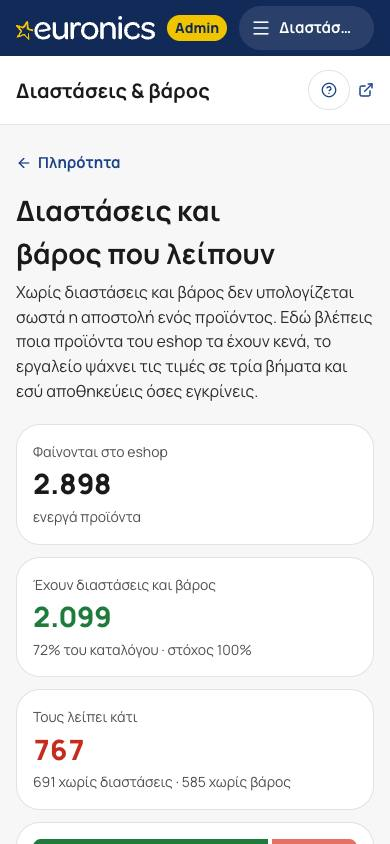
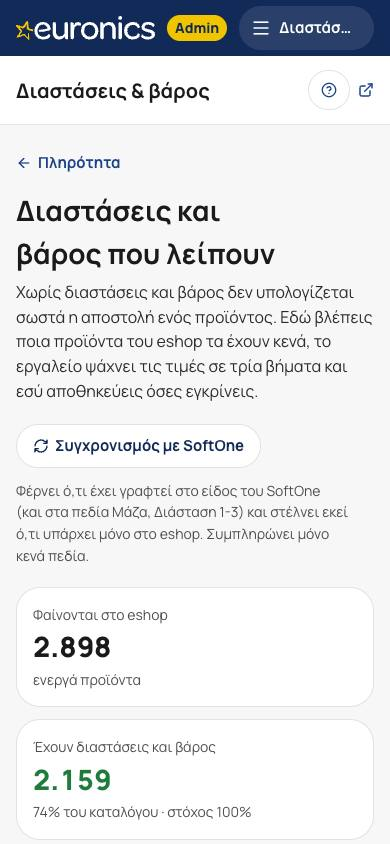
Διαστάσεις & βάρος: κουμπί «Καταχώρηση» σε κάθε προϊόν (παράθυρο για πλάτος, ύψος, βάθος και βάρος με το χέρι — ζητά μόνο ό,τι λείπει, ξεκινά από την πρόταση, αποθηκεύει σε eshop και SoftOne) και «Συγχρονισμός με SoftOne» και προς τις δύο κατευθύνσεις: τα πεδία Βάρος/Μήκος/Πλάτος/Ύψος (CCC, αυτά δια

Changed region(s): [[0.0308, 0.5237, 0.9231, 1.0], [0.5846, 0.7393, 0.6154, 0.7701], [0.4923, 0.7701, 0.5231, 0.8009]]

diff --git a/components/admin/catalog/DimsMissingTool.tsx b/components/admin/catalog/DimsMissingTool.tsx
@@ -2,9 +2,10 @@
 
 import { useMemo, useRef, useState } from "react";
 import Link from "next/link";
-import { AlertTriangle, Check, CircleDashed, FileSearch, Globe, Leaf, Loader2, Save, SearchX, Square } from "lucide-react";
-import { searchDimsAction, saveDimsAction } from "@/app/admin/(shell)/catalog/dimensions/missing/actions";
-import type { MissingOverview, SearchMode, SaveOutcome } from "@/lib/catalog/dims-missing";
+import { AlertTriangle, Check, CircleDashed, FileSearch, Globe, Leaf, Loader2, PencilLine, RefreshCw, Save, SearchX, Square, X } from "lucide-react";
+import { Dialog, DialogContent, DialogTitle, DialogDescription } from "@/components/ui/dialog";
+import { searchDimsAction, saveDimsAction, syncPlanAction, syncRunAction, missingRowsAction } from "@/app/admin/(shell)/catalog/dimensions/missing/actions";
+import type { MissingOverview, MissingRow, SearchMode, SaveOutcome, SavePick } from "@/lib/catalog/dims-missing";
 import type { RowProposal } from "@/lib/catalog/dims-missing-core";
 
 const n = (v: number) => v.toLocaleString("el-GR", { maximumFractionDigits: 2 });
@@ -36,6 +37,7 @@ export function DimsMissingTool({ overview, canWrite, s1On, eprelKey }: { overvi
   const [webLimit, setWebLimit] = useState(50);
   const stop = useRef(false);
   const [savingId, setSavingId] = useState<string | null>(null);
+  const [manual, setManual] = useState<MissingRow | null>(null);
 
   const statusOf = (id: string) => props.get(id)?.status ?? "pending";
   const counts = useMemo(() => { const c = { ready: 0, review: 0, none: 0, pending: 0 }; for (const r of rows) c[props.get(r.id)?.status ?? "pending"]++; return c; }, [rows, props]);
@@ -68,8 +70,8 @@ export function DimsMissingTool({ overview, canWrite, s1On, eprelKey }: { overvi
   const open = rows.filter((r) => statusOf(r.id) !== "ready");
 
   /** `only`: άμεση αποθήκευση ενός προϊόντος (κουμπί στη γραμμή «Απαιτεί ενέργεια»)· αλλιώς όλα τα τσεκαρισμένα. */
-  async function save(only?: string) {
-    const picks = rows.filter((r) => (only ? r.id === only : sel.has(r.id)) && props.get(r.id)).map((r) => { const p = props.get(r.id)!; return { productId: r.id, dims: p.dims && { w: p.dims.w, h: p.dims.h, d: p.dims.d, label: p.dims.label, raw: p.dims.raw }, weight: p.weight && { kg: p.weight.kg, label: p.weight.label, raw: p.weight.raw } }; });
+  async function save(only?: string, manualPick?: SavePick) {
+    const picks: SavePick[] = manualPick ? [manualPick] : rows.filter((r) => (only ? r.id === only : sel.has(r.id)) && props.get(r.id)).map((r) => { const p = props.get(r.id)!; return { productId: r.id, dims: p.dims && { w: p.dims.w, h: p.dims.h, d: p.dims.d, label: p.dims.label, raw: p.dims.raw }, weight: p.weight && { kg: p.weight.kg, label: p.weight.label, raw: p.weight.raw } }; });
     if (!picks.length) return;
     stop.current = false; setMsg(null); setSavingId(only ?? null);
     const all: SaveOutcome[] = [];
@@ -82,18 +84,37 @@ export function DimsMissingTool({ overview, canWrite, s1On, eprelKey }: { overvi
     } catch { setMsg({ ok: false, text: "Η αποθήκευση σταμάτησε από σφάλμα. Όσα πρόλαβαν αποθηκεύτηκαν." }); }
     const ok = new Set(all.filter((o) => o.ok).map((o) => o.id));
     const title = (id: string) => rows.find((r) => r.id === id)?.title ?? id;
+    if (manualPick) setManual(null);
     setSaved({ s1: all.filter((o) => o.ok && o.s1 === "written").length, eshop: all.filter((o) => o.ok && o.s1 !== "written").length, failed: all.filter((o) => !o.ok || o.s1 === "error").map((o) => `${title(o.id)}: ${o.message ?? "σφάλμα"}`) });
     setRows((l) => l.filter((r) => !ok.has(r.id)));
     setSel((s) => new Set([...s].filter((id) => !ok.has(id))));
     setBusy(null); setSavingId(null);
   }
 
+  /** Συγχρονισμός με το SoftOne: πρώτα ποια διαφέρουν (μία ανάγνωση), μετά ανά παρτίδα, και στο τέλος η λίστα ξανά από τη βάση. */
+  async function sync() {
+    stop.current = false; setMsg(null); setSaved(null);
+    const label = "Συγχρονισμός με SoftOne";
+    setBusy({ label, done: 0, total: 1, found: 0, cost: 0 });
+    try {
+      const ids = await syncPlanAction();
+      let done = 0, ok = 0, written = 0; const failed: string[] = [];
+      for (let i = 0; i < ids.length && !stop.current; i += 6) {
+        setBusy({ label, done, total: ids.length, found: ok, cost: 0 });
+        const r = await syncRunAction(ids.slice(i, i + 6));
+        done += Math.min(6, ids.length - i); ok += r.done; written += r.written; failed.push(...r.failed.map((f) => f.error));
+      }
+      setRows(await missingRowsAction());
+      setMsg({ ok: !failed.length, text: !ids.length ? "Το eshop και το SoftOne συμφωνούν ήδη· δεν χρειάστηκε καμία αλλαγή." : `Συγχρονισμός: ενημερώθηκαν ${n(ok)} από ${n(ids.length)} προϊόντα· σε ${n(written)} συμπληρώθηκαν κενά πεδία στο SoftOne${failed.length ? ` · ${n(failed.length)} απέτυχαν (${failed[0]})` : ""}${done < ids.length ? " · σταμάτησε πριν τελειώσει, πάτα ξανά για τα υπόλοιπα" : ""}.` });
+    } catch { setMsg({ ok: false, text: "Ο συγχρονισμός σταμάτησε από σφάλμα. Πάτα ξανά για να συνεχίσει από εκεί που έμεινε." }); }
+    setBusy(null);
+  }
   const saving = busy?.label === "Αποθήκευση";
   const progress = busy && (
           <div className="rounded-2xl border border-eu-line bg-white p-4 grid gap-2 w-full">
             <div className="flex flex-wrap items-center gap-3 text-eu-ink text-[length:var(--fs-14)]">
               <Loader2 className="size-4 animate-spin text-eu-blue" aria-hidden />
-              <b>{busy.label}</b><span className="tabular-nums">{n(busy.done)} από {n(busy.total)} · {busy.label === "Αποθήκευση" ? "αποθηκεύτηκαν" : "βρέθηκαν"} {n(busy.found)}{busy.cost ? ` · ${busy.cost.toFixed(2)} $` : ""}</span>
+              <b>{busy.label}</b><span className="tabular-nums">{n(busy.done)} από {n(busy.total)} · {busy.label === "Αποθήκευση" ? "αποθηκεύτηκαν" : busy.label.startsWith("Συγχρ") ? "ενημερώθηκαν" : "βρέθηκαν"} {n(busy.found)}{busy.cost ? ` · ${busy.cost.toFixed(2)} $` : ""}</span>
               <button type="button" onClick={() => { stop.current = true; }} className={`${btn} border border-eu-line bg-white text-eu-ink hover:border-eu-navy ml-auto`}><Square className="size-3.5" aria-hidden /> Σταμάτα</button>
             </div>
             <div className="h-2 rounded-full bg-eu-surface overflow-hidden"><div className="h-full bg-eu-blue transition-[width] duration-300" style={{ width: `${(busy.done / busy.total) * 100}%` }} /></div>
@@ -107,6 +128,10 @@ export function DimsMissingTool({ overview, canWrite, s1On, eprelKey }: { overvi
 
   return (
     <div className="grid gap-5 min-w-0">
+      <div data-help="dims-missing.sync" className="flex flex-wrap items-center gap-3">
+        <button type="button" disabled={!!busy || !canWrite} onClick={sync} className={`${btn} border border-eu-line bg-white text-eu-navy hover:border-eu-navy`}><RefreshCw className="size-4" aria-hidden /> Συγχρονισμός με SoftOne</button>
+        <p className="m-0 flex-1 min-w-[240px] max-w-[80ch] text-eu-ink-3 text-[length:var(--fs-13)]">Φέρνει ό,τι έχει γραφτεί στο είδος του SoftOne (και στα πεδία Μάζα, Διάσταση 1-3) και στέλνει εκεί ό,τι υπάρχει μόνο στο eshop. Συμπληρώνει μόνο κενά πεδία{s1On ? "" : " · η εγγραφή στο SoftOne είναι κλειστή, οπότε τώρα μόνο διαβάζει"}.</p>
+      </div>
       <section data-help="dims-missing.summary" className="grid gap-3 min-w-0">
         <div className="grid grid-cols-1 @2xl:grid-cols-3 gap-3">
           {[
@@ -199,6 +224,7 @@ export function DimsMissingTool({ overview, canWrite, s1On, eprelKey }: { overvi
                 </div>
                 <div className="col-start-2 @3xl:col-start-auto flex flex-wrap @3xl:flex-col items-center @3xl:items-end gap-2">
                   <span className={`w-fit inline-flex items-center gap-1 rounded-full px-2.5 py-1 font-bold text-[length:var(--fs-13)] whitespace-nowrap ${st.cls}`}><st.Icon className="size-3.5" aria-hidden />{st.label}</span>
+                  {canWrite && <button type="button" disabled={!!busy} onClick={() => setManual(r)} data-help="dims-missing.manual" className={`${btn} @3xl:min-h-9 px-3 text-[length:var(--fs-13)] border border-eu-line bg-white text-eu-navy hover:border-eu-navy whitespace-nowrap`}><PencilLine className="size-4" aria-hidden /> Καταχώρηση</button>}
                   {p?.status === "review" && canWrite && <button type="button" disabled={!!busy} onClick={() => save(r.id)} className={`${btn} @3xl:min-h-9 px-3 text-[length:var(--fs-13)] bg-eu-navy text-white hover:bg-eu-blue whitespace-nowrap`}>{savingId === r.id ? <Loader2 className="size-4 animate-spin" aria-hidden /> : <Check className="size-4" aria-hidden />} {savingId === r.id ? "Αποθηκεύεται" : "Σωστό, αποθήκευση"}</button>}
                 </div>
               </li>
@@ -222,6 +248,55 @@ export function DimsMissingTool({ overview, canWrite, s1On, eprelKey }: { overvi
           {s1On ? "Γράφονται στο eshop και στο είδος του SoftOne: Βάρος, Μήκος, Πλάτος, Ύψος και Μάζα, Διάσταση 1-3. Μόνο όπου το πεδίο είναι κενό· ό,τι υπάρχει ήδη δεν αλλάζει." : "Η εγγραφή στο SoftOne είναι κλειστή (Ρυθμίσεις → SoftOne → Αλλαγές προϊόντων προς SoftOne): αποθηκεύονται μόνο στο eshop και μετρούν κανονικά για την αποστολή."}
         </p>
       </section>
+      {manual && <ManualDialog key={manual.id} row={manual} seed={props.get(manual.id)} busy={!!busy} onClose={() => setManual(null)} onSave={(pick) => save(manual.id, pick)} />}
     </div>
+  );
+}
+
+const LIMITS = { dim: [0.3, 400], kg: [0.002, 300] } as const;
+const field = "w-full min-w-0 rounded-xl border border-eu-line px-3 min-h-11 tabular-nums text-[length:var(--fs-16)]";
+
+/** Χειροκίνητη καταχώρηση για ένα προϊόν: μόνο ό,τι του λείπει, με αρχικές τιμές από την πρόταση αν υπάρχει. */
+function ManualDialog({ row, seed, busy, onClose, onSave }: { row: MissingRow; seed?: RowProposal; busy: boolean; onClose: () => void; onSave: (pick: SavePick) => void }) {
+  const [v, setV] = useState({ w: seed?.dims ? String(seed.dims.w) : "", h: seed?.dims ? String(seed.dims.h) : "", d: seed?.dims ? String(seed.dims.d) : "", kg: seed?.weight ? String(seed.weight.kg) : "" });
+  const [err, setErr] = useState<string | null>(null);
+  const num = (x: string) => Number(x.trim().replace(",", "."));
+  const submit = (e: React.FormEvent) => {
+    e.preventDefault();
+    const dimsIn = [v.w, v.h, v.d].filter((x) => x.trim()).length, [w, h, d, kg] = [num(v.w), num(v.h), num(v.d), num(v.kg)];
+    const inR = (x: number, [lo, hi]: readonly [number, number]) => Number.isFinite(x) && x >= lo && x <= hi;
+    if (!dimsIn && !v.kg.trim()) return setErr("Γράψε διαστάσεις ή βάρος.");
+    if (dimsIn && dimsIn < 3) return setErr("Γράψε και τις τρεις διαστάσεις: πλάτος, ύψος και βάθος.");
+    if (dimsIn && ![w, h, d].every((x) => inR(x, LIMITS.dim))) return setErr("Οι διαστάσεις είναι σε εκατοστά, από 0,3 έως 400.");
+    if (v.kg.trim() && !inR(kg, LIMITS.kg)) return setErr("Το βάρος είναι σε κιλά, από 0,002 έως 300 (π.χ. 0,25 για 250 γρ.).");
+    onSave({ productId: row.id, dims: dimsIn ? { w, h, d, label: "Χειροκίνητα", raw: `${n(w)} × ${n(h)} × ${n(d)} εκ.` } : null, weight: v.kg.trim() ? { kg, label: "Χειροκίνητα", raw: `${n(kg)} κιλά` } : null });
+  };
+  const input = (k: "w" | "h" | "d" | "kg", label: string, unit: string) => (
+    <label className="grid gap-1 min-w-0 font-bold text-eu-ink text-[length:var(--fs-14)]">{label} <span className="font-normal text-eu-ink-3 text-[length:var(--fs-13)]">{unit}</span>
+      <input inputMode="decimal" value={v[k]} onChange={(e) => { setV({ ...v, [k]: e.target.value }); setErr(null); }} className={field} />
+    </label>
+  );
+  return (
+    <Dialog open onOpenChange={(o) => { if (!o && !busy) onClose(); }}>
+      <DialogContent showCloseButton={false} className="p-0 gap-0 sm:max-w-[520px] max-w-[calc(100%-1.5rem)] max-h-[92dvh] overflow-y-auto rounded-2xl text-eu-ink bg-white">
+        <div className="flex items-start justify-between gap-3 px-4 py-3 border-b border-eu-line">
+          <div className="min-w-0">
+            <DialogTitle className="m-0 font-heading font-bold text-eu-ink text-[length:var(--fs-17)] break-words">{row.title}</DialogTitle>
+            <DialogDescription className="m-0 text-eu-ink-3 text-[length:var(--fs-13)]">{row.brand} · {row.sku} · λείπουν: {[row.missDims && "διαστάσεις", row.missWeight && "βάρος"].filter(Boolean).join(", ")}</DialogDescription>
+          </div>
+          <button type="button" onClick={onClose} disabled={busy} aria-label="Κλείσιμο" className="shrink-0 inline-flex items-center justify-center size-11 rounded-full hover:bg-eu-surface cursor-pointer"><X className="size-5" aria-hidden /></button>
+        </div>
+        <form onSubmit={submit} className="p-4 grid gap-4 min-w-0">
+          {row.missDims && <div className="grid grid-cols-3 gap-3">{input("w", "Πλάτος", "εκ.")}{input("h", "Ύψος", "εκ.")}{input("d", "Βάθος", "εκ.")}</div>}
+          {row.missWeight && <div className="grid grid-cols-3 gap-3">{input("kg", "Βάρος", "κιλά")}</div>}
+          <p className="m-0 text-eu-ink-3 text-[length:var(--fs-13)]">Της συσκευασίας ή του προϊόντος, ό,τι έχεις. Αποθηκεύονται στο eshop και στο είδος του SoftOne, μόνο όπου το πεδίο είναι κενό.</p>
+          {err && <p role="alert" className="m-0 rounded-xl bg-eu-red/10 text-eu-red font-bold px-3 py-2 text-[length:var(--fs-14)]">{err}</p>}
+          <div className="flex flex-wrap gap-2 justify-end">
+            <button type="button" onClick={onClose} disabled={busy} className={`${btn} border border-eu-line bg-white text-eu-ink hover:border-eu-navy`}>Άκυρο</button>
+            <button type="submit" disabled={busy} className={`${btn} bg-eu-navy text-white hover:bg-eu-blue`}>{busy ? <Loader2 className="size-4 animate-spin" aria-hidden /> : <Save className="size-4" aria-hidden />} Αποθήκευση</button>
+          </div>
+        </form>
+      </DialogContent>
+    </Dialog>
   );
 }

diff --git a/lib/help/content/index.ts b/lib/help/content/index.ts
@@ -936,15 +936,19 @@ export const HELP_PAGES: HelpPage[] = [
     title: "Διαστάσεις και βάρος που λείπουν",
     summary: "Δείχνει ποια προϊόντα που φαίνονται στο eshop δεν έχουν διαστάσεις ή βάρος (χωρίς αυτά δεν υπολογίζεται σωστά η αποστολή) και τα συμπληρώνει μαζικά. Το εργαλείο ψάχνει τις τιμές σε τρία βήματα, δείχνει από πού βγήκε η καθεμία και αποθηκεύει μόνο όσες εγκρίνεις.",
     parts: [
+      { key: "dims-missing.sync", title: "Συγχρονισμός με SoftOne", text: "Για όταν κάποιος έγραψε διαστάσεις ή βάρος απευθείας στο SoftOne και δεν φαίνονται εδώ. Το eshop διαβάζει τα πεδία Βάρος, Μήκος, Πλάτος, Ύψος του είδους· αν οι τιμές μπήκαν στα Μάζα και Διάσταση 1-3, ο συγχρονισμός τις αντιγράφει και στα πρώτα (και αντίστροφα), στέλνει στο SoftOne ό,τι υπάρχει μόνο στο eshop και ξαναδιαβάζει το είδος. Συμπληρώνει μόνο κενά πεδία: όπου υπάρχει ήδη τιμή, ακόμη και διαφορετική, δεν αλλάζει. Δείχνει πρόοδο και σταματά με «Σταμάτα»· αν το πατήσεις ξανά συνεχίζει με τα υπόλοιπα." },
       { key: "dims-missing.summary", title: "Πού βρισκόμαστε", text: "Πόσα προϊόντα φαίνονται στο eshop, πόσα έχουν διαστάσεις και βάρος και πόσα όχι. Η μπάρα: πράσινο = πλήρη, μπλε = έχουν έτοιμη πρόταση και περιμένουν «Αποθήκευση», κόκκινο = ανοιχτά. Τα σετ δεν μετρούν εδώ, παίρνουν τις τιμές από τα είδη τους." },
       { key: "dims-missing.steps", title: "Τα τρία βήματα αναζήτησης", text: "1. Από όσα έχουμε ήδη: χαρακτηριστικά, περιγραφές, δελτία EPREL και PDF. Δωρεάν, δεν αλλάζει τίποτα. 2. EPREL: τι δηλώνει ο κατασκευαστής για συσκευές με ενεργειακή ετικέτα. Δωρεάν· ό,τι βρεθεί μένει στο προϊόν (ετικέτα, χαρακτηριστικά). 3. Site κατασκευαστή: Icecat και η σελίδα του κατασκευαστή, περίπου 0,01 $ το προϊόν, με όριο που βάζεις εσύ. Κάθε βήμα ψάχνει μόνο όσα δεν έχουν ακόμη έτοιμη πρόταση. Με «Σταμάτα» κρατάς ό,τι βρέθηκε ως εκείνη τη στιγμή." },
       { key: "dims-missing.list", title: "Προϊόντα και προτάσεις", text: "Ανά προϊόν: τι λείπει, η πρόταση (Πλάτος × Ύψος × Βάθος σε εκ., βάρος σε κιλά), από ποια πηγή και πόσες πηγές συμφωνούν. «Έτοιμο» = βρέθηκε ό,τι λείπει και τίποτα δεν είναι ύποπτο· είναι ήδη τσεκαρισμένο. «Απαιτεί ενέργεια» = απίθανη τιμή (π.χ. βάρος λίγων γραμμαρίων σε μεγάλη συσκευή), πηγές που διαφωνούν ή βρέθηκε μόνο το ένα από τα δύο· αν συμφωνείς, πάτα «Σωστό, αποθήκευση» στη γραμμή του και αποθηκεύεται αμέσως μόνο αυτό (ή τσέκαρέ το για να φύγει μαζί με τα υπόλοιπα). «Δεν βρέθηκε» = καμία πηγή δεν έδωσε τιμή." },
+      { key: "dims-missing.manual", title: "Καταχώρηση με το χέρι", text: "Το κουμπί «Καταχώρηση» σε κάθε προϊόν ανοίγει παράθυρο όπου γράφεις πλάτος, ύψος, βάθος (εκ.) και βάρος (κιλά). Ζητά μόνο ό,τι λείπει και ξεκινά με την πρόταση, αν υπάρχει. Οι διαστάσεις μπαίνουν και οι τρεις μαζί. Αποθηκεύεται αμέσως, στο eshop και στο SoftOne, όπως και οι προτάσεις." },
       { key: "dims-missing.save", title: "Αποθήκευση", text: "Αποθηκεύει τα τσεκαρισμένα. Στο eshop πάντα. Στο είδος του SoftOne (όταν είναι ανοιχτό το «Αλλαγές προϊόντων προς SoftOne»): Βάρος, Μήκος, Πλάτος, Ύψος και τα τυπικά πεδία Μάζα και Διάσταση 1 (μήκος), 2 (πλάτος), 3 (ύψος), σε κιλά και εκατοστά. Γράφεται μόνο πεδίο που είναι κενό· ό,τι υπάρχει ήδη δεν αλλάζει και οι τρεις διαστάσεις γράφονται μόνο μαζί." },
       { key: "dims-missing.result", title: "Τι αποθηκεύτηκε", text: "Μετά την αποθήκευση: πόσα γράφτηκαν και στο SoftOne (πράσινο), πόσα μόνο στο eshop (μπλε) και ποια απέτυχαν με τον λόγο. Όσα αποθηκεύτηκαν φεύγουν από τη λίστα." },
     ],
     tasks: [
       { title: "Συμπληρώνω όσα γίνεται χωρίς κόστος", steps: ["Πάτα «Αναζήτηση σε όλα» στο βήμα 1 και περίμενε να τελειώσει.", "Πάτα «Αναζήτηση στο EPREL» στο βήμα 2.", "Δες το φίλτρο «Έτοιμα» και πάτα «Αποθήκευση επιλεγμένων»."] },
       { title: "Ψάχνω τα υπόλοιπα στο internet", steps: ["Στο βήμα 3 γράψε πόσα προϊόντα θέλεις (το κόστος φαίνεται δίπλα).", "Πάτα «Αναζήτηση στο internet».", "Έλεγξε τα «Απαιτούν ενέργεια», τσέκαρε όσα είναι σωστά και αποθήκευσε."] },
+      { title: "Έβαλα διαστάσεις στο SoftOne και δεν τις βλέπω", steps: ["Πάτα «Συγχρονισμός με SoftOne» πάνω πάνω.", "Περίμενε να τελειώσει η μπάρα· το προϊόν φεύγει από τη λίστα αν έχει πλέον διαστάσεις και βάρος."] },
+      { title: "Ξέρω τις διαστάσεις και θέλω να τις γράψω", steps: ["Βρες το προϊόν με την αναζήτηση.", "Πάτα «Καταχώρηση», γράψε τις τιμές και «Αποθήκευση»."] },
       { title: "Μια πρόταση είναι λάθος", steps: ["Ξετσέκαρε το προϊόν για να μην αποθηκευτεί.", "Πάτα τον τίτλο του: στην καρτέλα «Διαστάσεις» βλέπεις όλες τις πηγές και γράφεις τη σωστή τιμή."] },
     ],
     tips: ["Διαστάσεις συσκευασίας είναι δεκτές: μια τιμή μεγαλύτερη από το τυπικό για τον τύπο (π.χ. εστία με ύψος 22,5 εκ.) βγαίνει «Έτοιμο».", "Το βάρος που βρίσκεται είναι συνήθως του προϊόντος χωρίς τη συσκευασία. Όπου η πηγή δίνει βάρος συσκευασίας, προτιμάται αυτό.", "Ένα προϊόν που δεν βρέθηκε στο internet δεν ξαναψάχνεται (και δεν ξαναχρεώνεται) για 30 ημέρες."],

diff --git a/lib/catalog/dims-missing.ts b/lib/catalog/dims-missing.ts
@@ -1,7 +1,7 @@
 import "server-only";
 import { db } from "@/lib/db";
 import { contentDims } from "./dims-from-content";
-import { toRowProposal, s1Changes, S1_DIM_FIELDS, type RowProposal } from "./dims-missing-core";
+import { toRowProposal, s1Changes, s1SyncChanges, S1_DIM_FIELDS, type RowProposal, type S1DimField } from "./dims-missing-core";
 import { DIM_MIN, DIM_MAX, KG_MIN, KG_MAX, checkDims } from "./dim-fill-core";
 
 /**
@@ -112,4 +112,46 @@ export async function saveOne(pick: SavePick, s1On: boolean): Promise<SaveOutcom
   }
   await saveEshopDims(pick, p.category.name);
   return { id: pick.productId, ok: true, s1, message };
+}
+
+/**
+ * Συγχρονισμός με το SoftOne και προς τις δύο κατευθύνσεις, για τα προϊόντα αυτής της σελίδας και όσα έχουν τιμές
+ * αποθηκευμένες στο eshop. Στο SoftOne: τα CCC (Βάρος, Μήκος, Πλάτος, Ύψος) και τα τυπικά (Μάζα, Διάσταση 1-3)
+ * συμπληρώνουν το ένα το άλλο, και ό,τι λείπει και από τα δύο έρχεται από το eshop — μόνο σε κενά πεδία. Στο eshop:
+ * το είδος ξαναδιαβάζεται από το SoftOne. Το `syncPlan` βρίσκει ποια χρειάζονται δουλειά με μία μαζική ανάγνωση.
+ */
+const SYNC_WHERE = { active: true, source: "softone", setSpcs: null, OR: [{ publishMissing: { has: "dims" } }, { weightKg: { not: null } }, { dimensions: { some: { source: "manual" } } }] };
+const SYNC_SELECT = { id: true, erpCode: true, weightKg: true, dimensions: { where: { source: "manual" }, select: { w: true, h: true, d: true } } } as const;
+const num = (v: unknown) => { const n = Number(String(v ?? "").replace(",", ".")); return n > 0 ? n : null; };
+
+export async function syncPlan(s1On: boolean): Promise<string[]> {
+  const ps = (await db.product.findMany({ where: SYNC_WHERE, select: SYNC_SELECT })).filter((p) => /^\d+$/.test(p.erpCode));
+  const mtrls = ps.map((p) => Number(p.erpCode));
+  const [{ getTable }, { ITEM_FIELDS }, mirror] = await Promise.all([import("@/lib/softone/lookups"), import("@/lib/softone/item-write"), db.s1Item.findMany({ where: { mtrl: { in: mtrls } }, select: { mtrl: true, weightKg: true, lengthCm: true, widthCm: true, heightCm: true } })]);
+  const live = new Map<number, Record<S1DimField, string>>();
+  for (let i = 0; i < mtrls.length; i += 300) for (const r of await getTable("MTRL", ["MTRL", ...S1_DIM_FIELDS.map((k) => ITEM_FIELDS[k].s1)], `MTRL IN (${mtrls.slice(i, i + 300).join(",")})`)) live.set(Number(r[0]), Object.fromEntries(S1_DIM_FIELDS.map((k, j) => [k, r[j + 1] ?? ""])) as Record<S1DimField, string>);
+  const mo = new Map(mirror.map((m) => [m.mtrl, m]));
+  return ps.filter((p) => {
+    const l = live.get(Number(p.erpCode)), m = mo.get(Number(p.erpCode));
+    if (!l) return false;
+    const stale = (["weightKg", "lengthCm", "widthCm", "heightCm"] as const).some((k) => num(l[k]) !== (m?.[k] && m[k]! > 0 ? m[k] : null));
+    return stale || (s1On && Object.keys(s1SyncChanges(l, { dims: p.dimensions[0] ?? null, kg: p.weightKg })).length > 0);
+  }).map((p) => p.id);
+}
+
+export async function syncRun(ids: string[], s1On: boolean): Promise<{ done: number; written: number; failed: { id: string; error: string }[] }> {
+  const out = { done: 0, written: 0, failed: [] as { id: string; error: string }[] };
+  const [{ readFields, writeItem }, { syncItem }, { projectItem }] = await Promise.all([import("@/lib/softone/item-write"), import("@/lib/softone/catalog"), import("@/lib/softone/project")]);
+  for (const p of await db.product.findMany({ where: { ...SYNC_WHERE, id: { in: ids } }, select: SYNC_SELECT })) {
+    try {
+      const mtrl = Number(p.erpCode);
+      const live = await readFields(mtrl, S1_DIM_FIELDS);
+      if (!live) throw new Error("Το είδος δεν διαβάστηκε από το SoftOne.");
+      const changes = s1On ? s1SyncChanges(live, { dims: p.dimensions[0] ?? null, kg: p.weightKg }) : {};
+      if (Object.keys(changes).length) { const w = await writeItem(mtrl, changes); if (!w.ok) throw new Error(w.error ?? "Η εγγραφή στο SoftOne απέτυχε."); out.written++; }
+      await syncItem(mtrl, "manual"); await projectItem(mtrl);
+      out.done++;
+    } catch (e) { console.error("[dims-missing] sync", p.id, e); out.failed.push({ id: p.id, error: (e as Error).message.slice(0, 160) }); }
+  }
+  return out;
 }

diff --git a/app/admin/(shell)/catalog/dimensions/missing/actions.ts b/app/admin/(shell)/catalog/dimensions/missing/actions.ts
@@ -29,3 +29,28 @@ export async function saveDimsAction(picks: SavePick[]) {
   if (done.length) { await projectPublishReady(done); resetCatalogCache(); revalidatePath("/admin/catalog/dimensions/missing"); }
   return out;
 }
+
+/** Συγχρονισμός με το SoftOne, βήμα 1: ποια προϊόντα διαφέρουν (μία μαζική ανάγνωση, καμία εγγραφή). */
+export async function syncPlanAction() {
+  await requirePermission("catalog.products.write");
+  const [{ syncPlan }, { itemWriteEnabled }] = await Promise.all([import("@/lib/catalog/dims-missing"), import("@/lib/softone/item-write")]);
+  return syncPlan(await itemWriteEnabled());
+}
+
+/** Βήμα 2, ανά παρτίδα (έως 8): συμπλήρωση κενών πεδίων στο SoftOne και νέα ανάγνωση του είδους στο eshop. */
+export async function syncRunAction(ids: string[]) {
+  const user = await requirePermission("catalog.products.write");
+  const [{ syncRun }, { itemWriteEnabled }, { projectPublishReady }, { resetCatalogCache }] = await Promise.all([import("@/lib/catalog/dims-missing"), import("@/lib/softone/item-write"), import("@/lib/catalog/publish-ready-server"), import("@/lib/data/db-catalog")]);
+  const part = (Array.isArray(ids) ? ids : []).filter((x) => typeof x === "string").slice(0, 8);
+  const r = await syncRun(part, await itemWriteEnabled());
+  await projectPublishReady(part); resetCatalogCache();
+  await audit(user.id, "catalog.dims-missing.sync", "Product", null, null, { n: part.length, done: r.done, written: r.written, failed: r.failed.length });
+  return r;
+}
+
+/** Η λίστα ξανά από τη βάση (μετά από συγχρονισμό). */
+export async function missingRowsAction() {
+  await requirePermission("catalog.products.read");
+  const { missingOverview } = await import("@/lib/catalog/dims-missing");
+  return (await missingOverview()).rows;
+}

diff --git a/lib/catalog/dims-missing-core.ts b/lib/catalog/dims-missing-core.ts
@@ -57,3 +57,15 @@ export function s1Changes(live: Record<S1DimField, unknown>, pick: { dims?: { w:
   if (pick.kg != null) { if (blank(live.weightKg)) set("weightKg", pick.kg); if (blank(live.mass)) set("mass", pick.kg); }
   return out;
 }
+
+/**
+ * Συγχρονισμός και προς τις δύο κατευθύνσεις για ένα είδος: τα CCC και τα τυπικά πεδία του SoftOne συμπληρώνουν το ένα το
+ * άλλο, και ό,τι λείπει και από τα δύο έρχεται από το eshop. Πάντα μόνο σε κενά πεδία· όπου έχουν και τα δύο τιμή (ακόμη
+ * και διαφορετική, π.χ. καθαρό / μικτό βάρος) δεν αλλάζει τίποτα.
+ */
+export function s1SyncChanges(live: Record<S1DimField, unknown>, eshop: { dims?: { w: number; h: number; d: number } | null; kg?: number | null }) {
+  const v = (k: S1DimField) => { const n = Number(String(live[k] ?? "").replace(",", ".")); return n > 0 ? n : null; };
+  const triple = (d: number | null, w: number | null, h: number | null) => (d && w && h ? { d, w, h } : null);
+  const dims = triple(v("lengthCm"), v("widthCm"), v("heightCm")) ?? triple(v("dim1"), v("dim2"), v("dim3")) ?? eshop.dims ?? null;
+  return s1Changes(live, { dims, kg: v("weightKg") ?? v("mass") ?? eshop.kg ?? null });
+}
